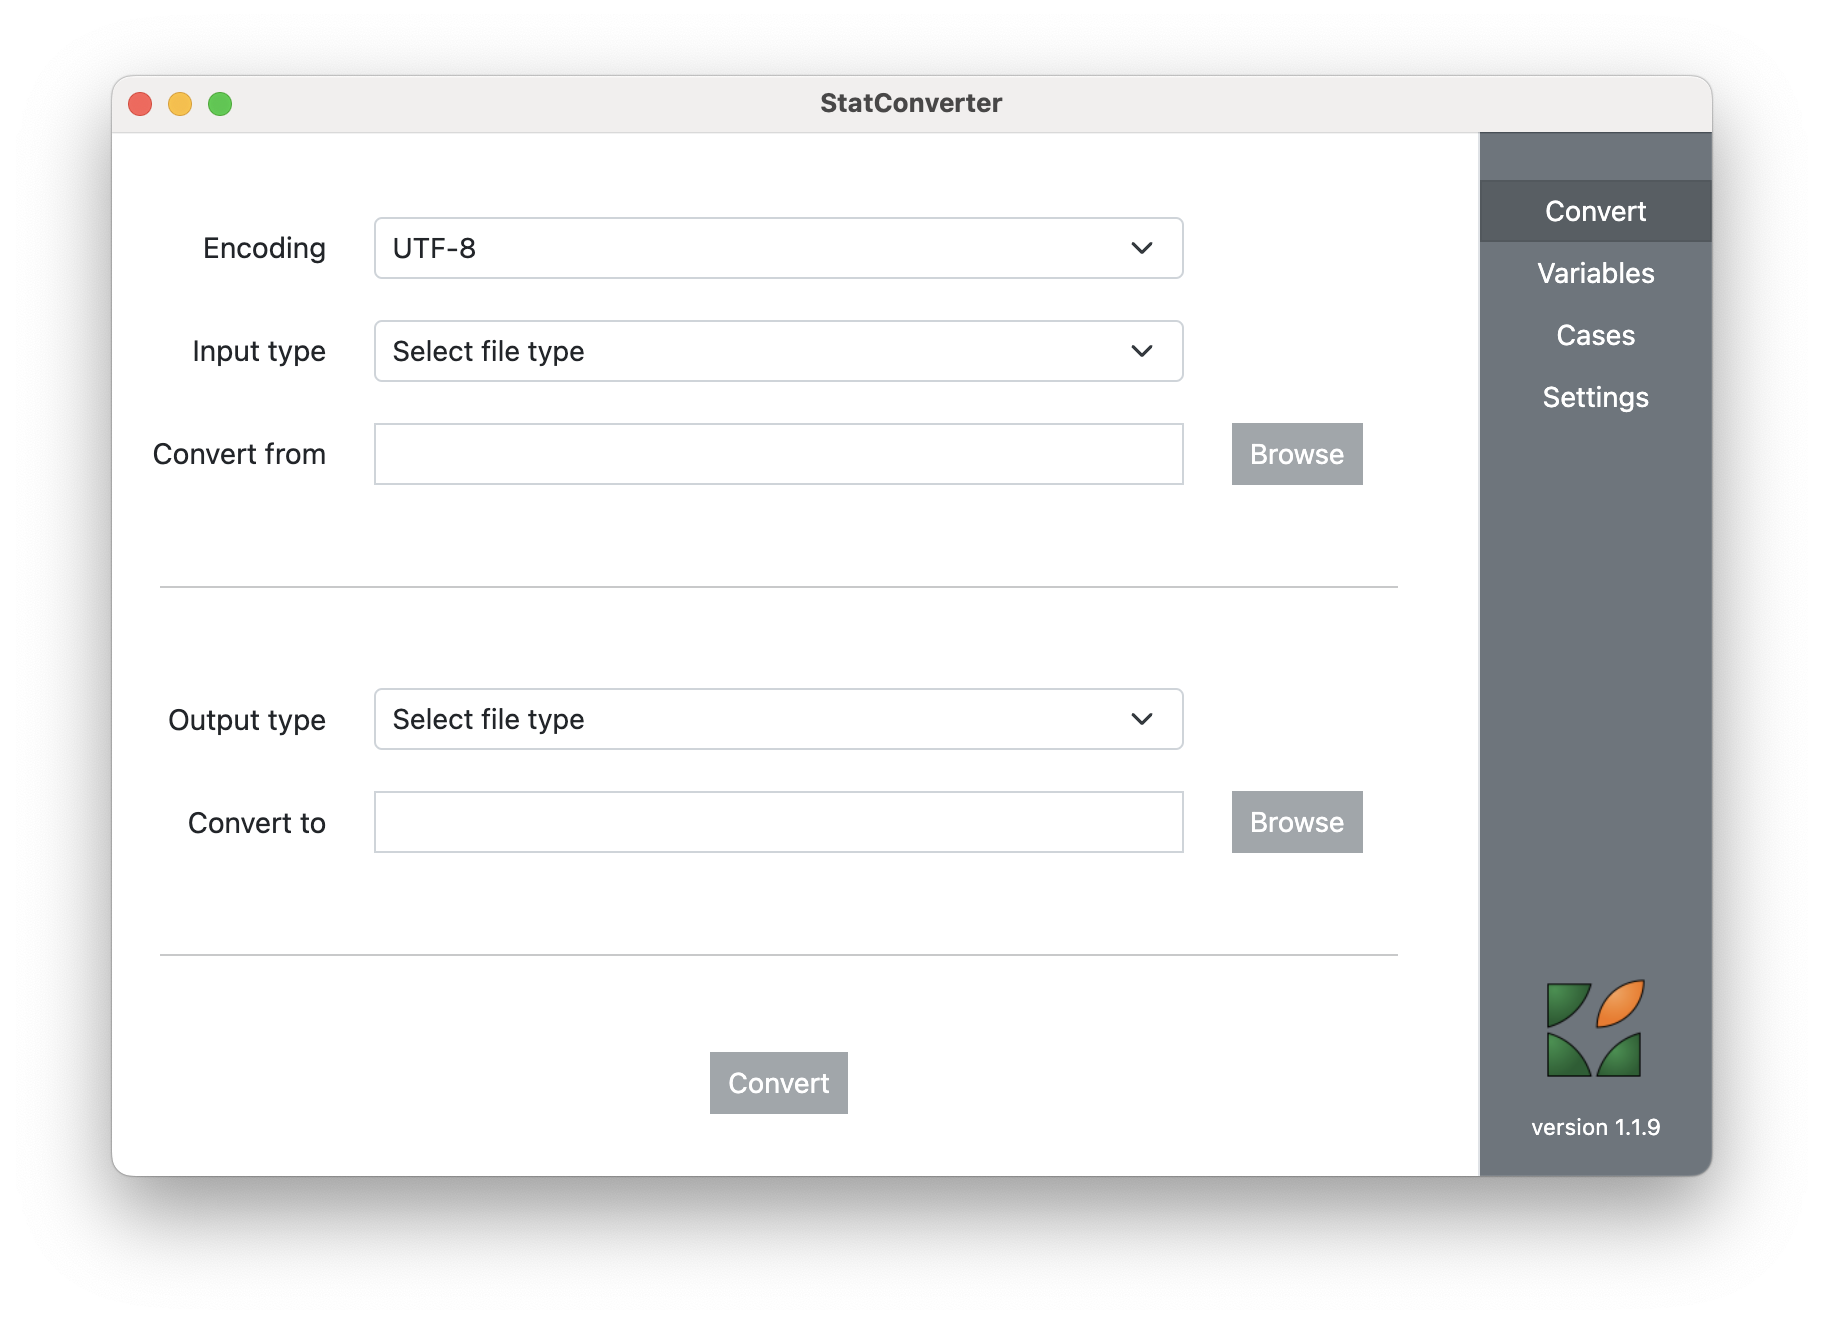
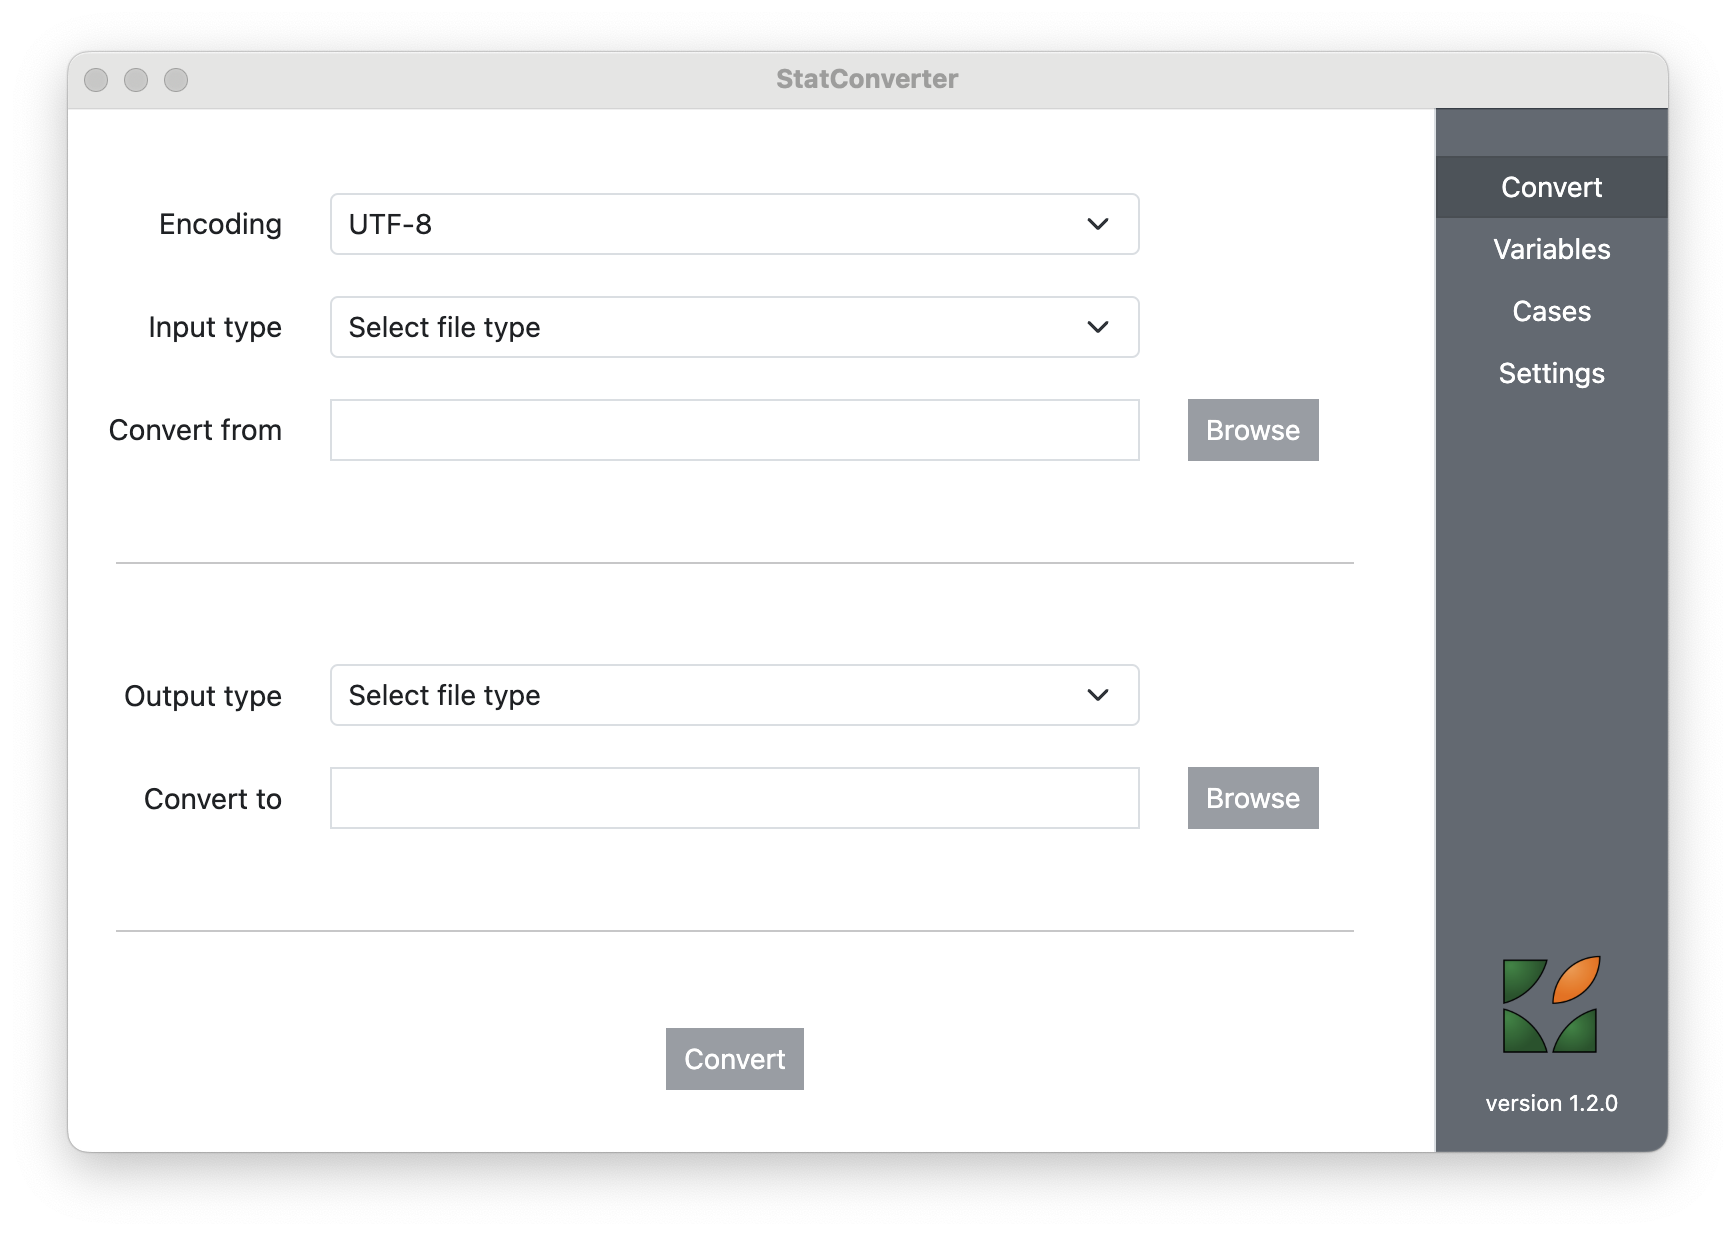
info update

diff --git a/docs/index.html b/docs/index.html
@@ -37,7 +37,7 @@
                     <h1>StatConverter</h1>
 
                     <p>
-                        StatConverter v1.1.9 (part of the <a href="http://www.roda.ro" target="_blank">RODA</a> Tools)
+                        StatConverter v1.2.0 (part of the <a href="http://www.roda.ro" target="_blank">RODA</a> Tools)
                         is a software to convert to and from various statistical package formats: R, SPSS, Stata, SAS (even Excel)
                         and DDI Codebook.
                     </p>

diff --git a/src/index.html b/src/index.html
@@ -456,7 +456,7 @@
 				<div class="text-white text-center flex" style="font-size: 0.7rem">
 					<div class="align-self-end pb-3">
 						<!-- <a href="#" class="text-white" id="checkForUpdates">Check for Updates</a><br /> -->
-						version 1.1.9
+						version 1.2.0
 					</div>
 				</div>
 			</div>
